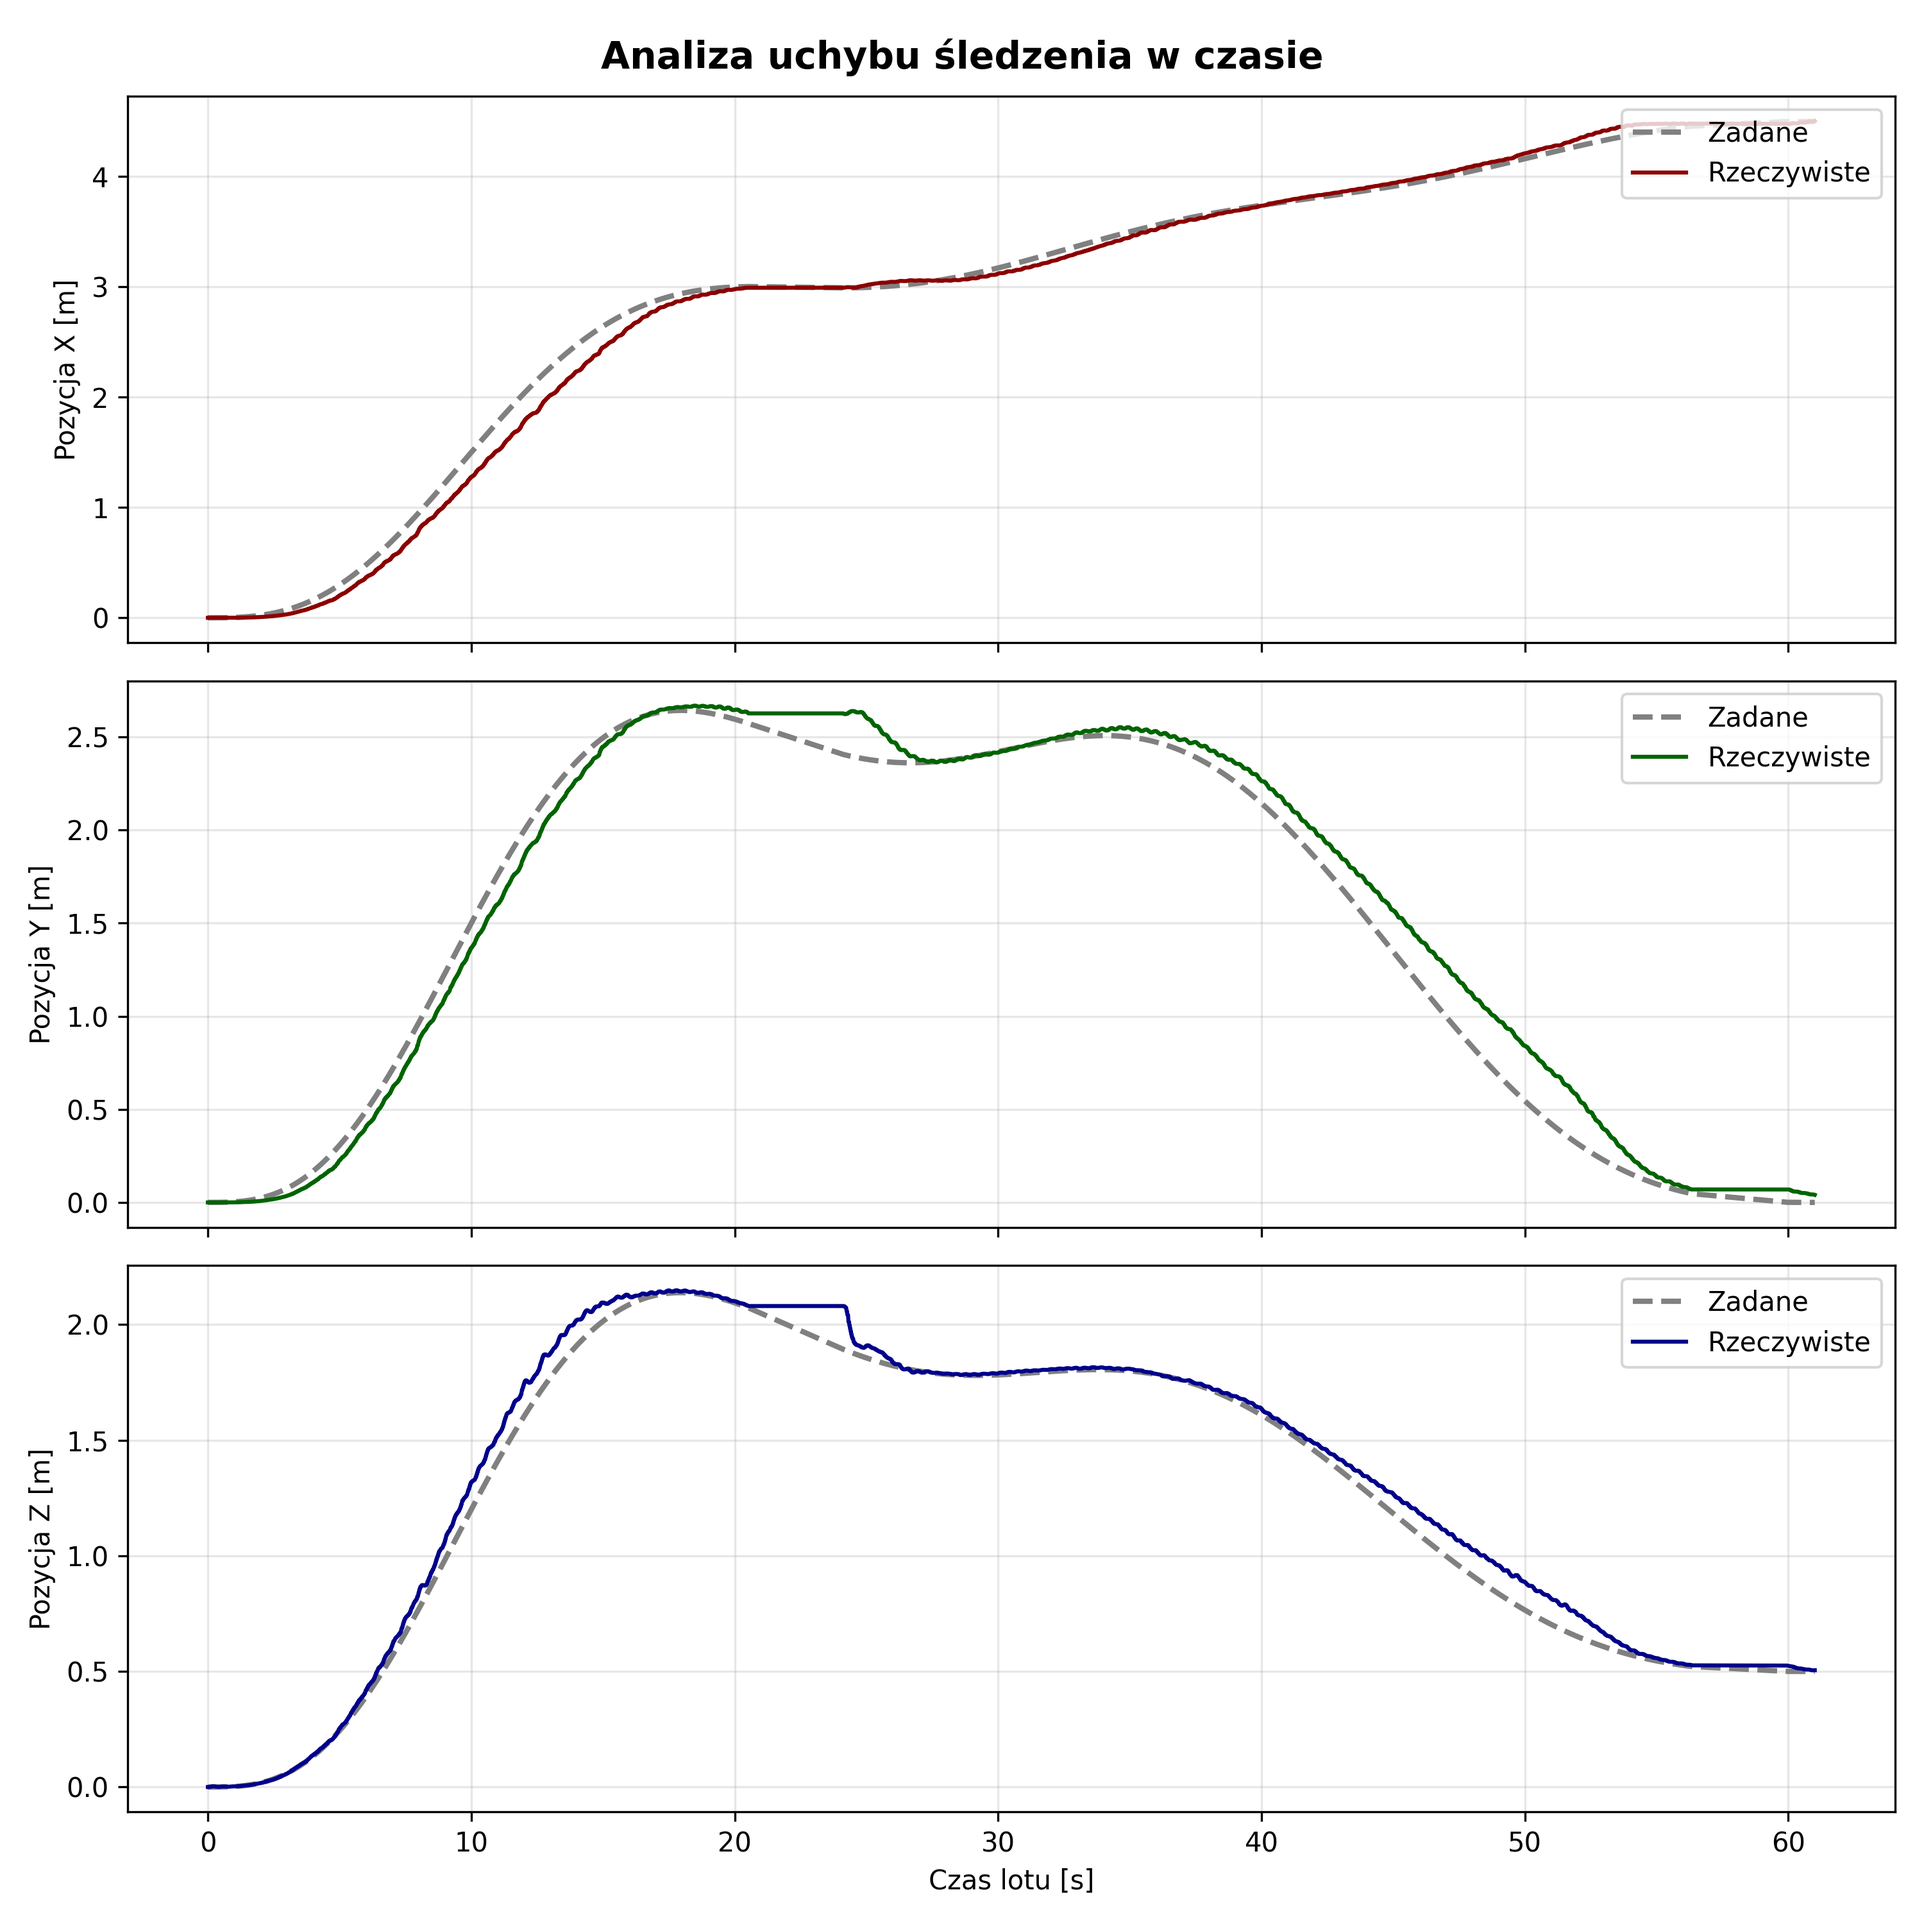
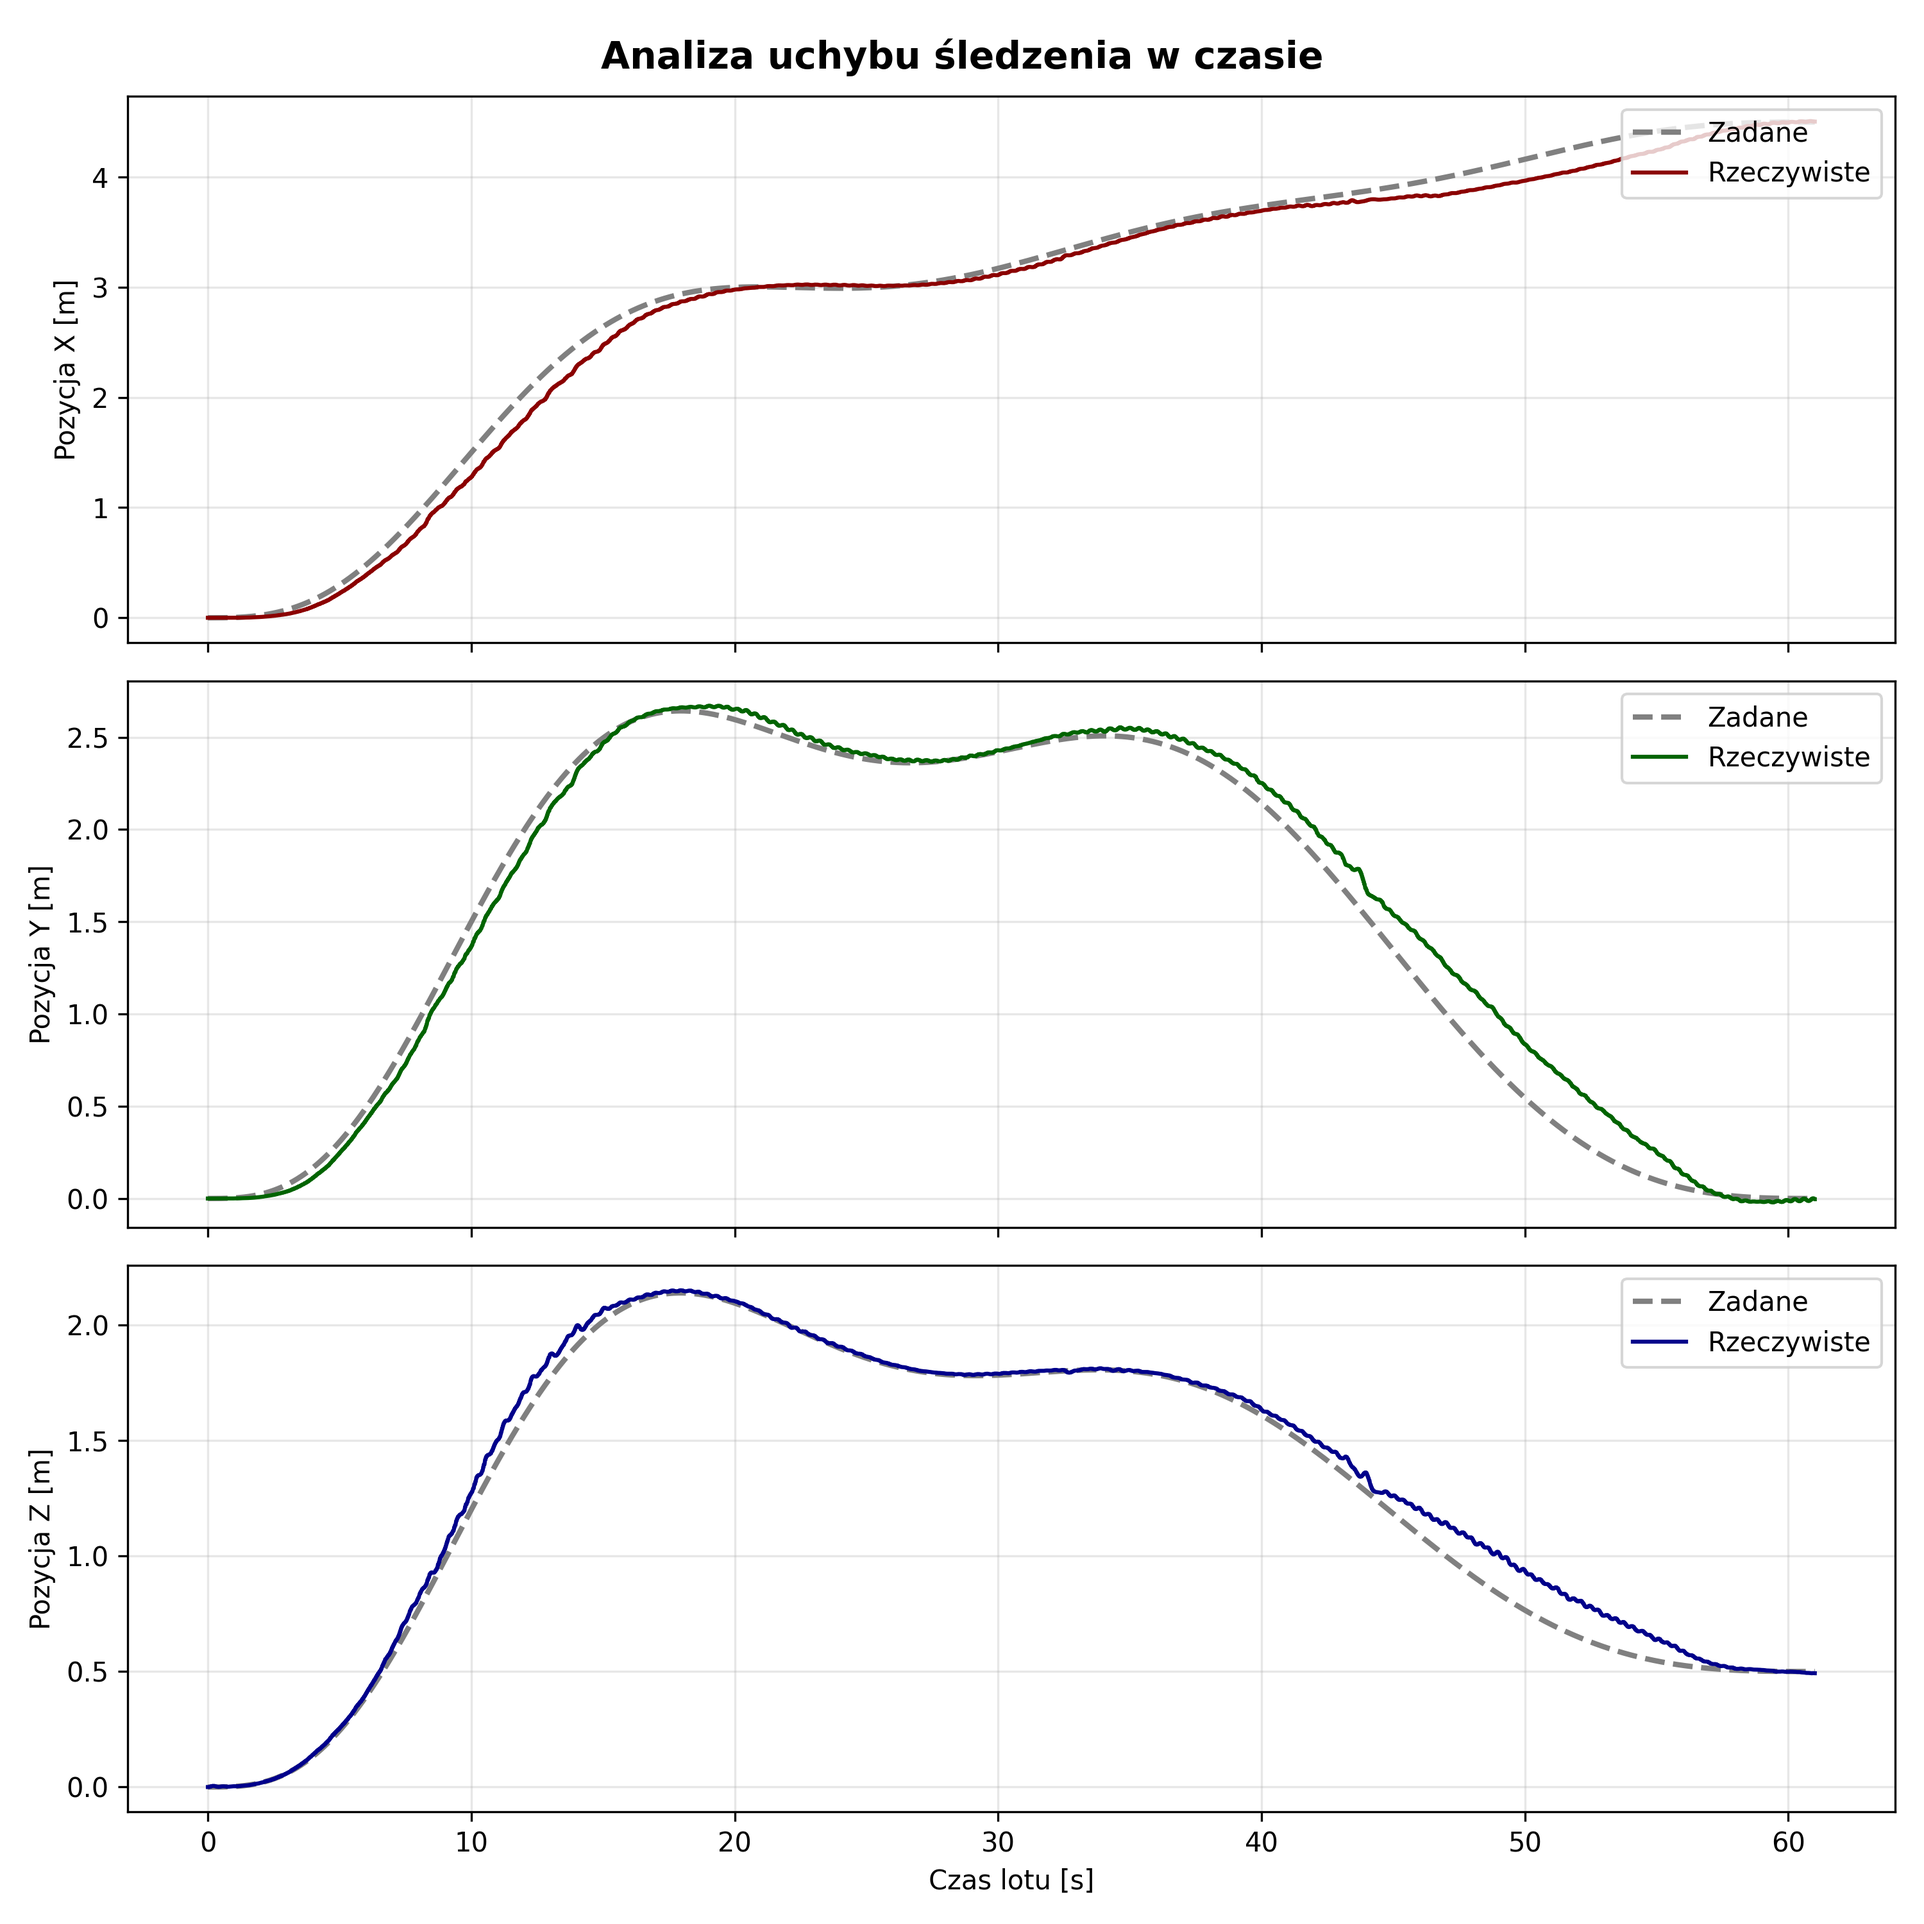
Even better working MPC

diff --git a/controller/controller/mpc_controller.py b/controller/controller/mpc_controller.py
@@ -2,7 +2,7 @@ import numpy as np
 from scipy.optimize import minimize
 
 class MPCPositionController:
-    def __init__(self, dt=0.01, horizon=8, a_max=0.01, q_pos=3e-8, q_vel=3e-3, r_acc=2):
+    def __init__(self, dt=0.1, horizon=20, a_max=0.01, q_pos=3e-8, q_vel=3e-3, r_acc=2):
         self.dt = float(dt)
         self.N = int(horizon)
         self.a_max = float(a_max)
